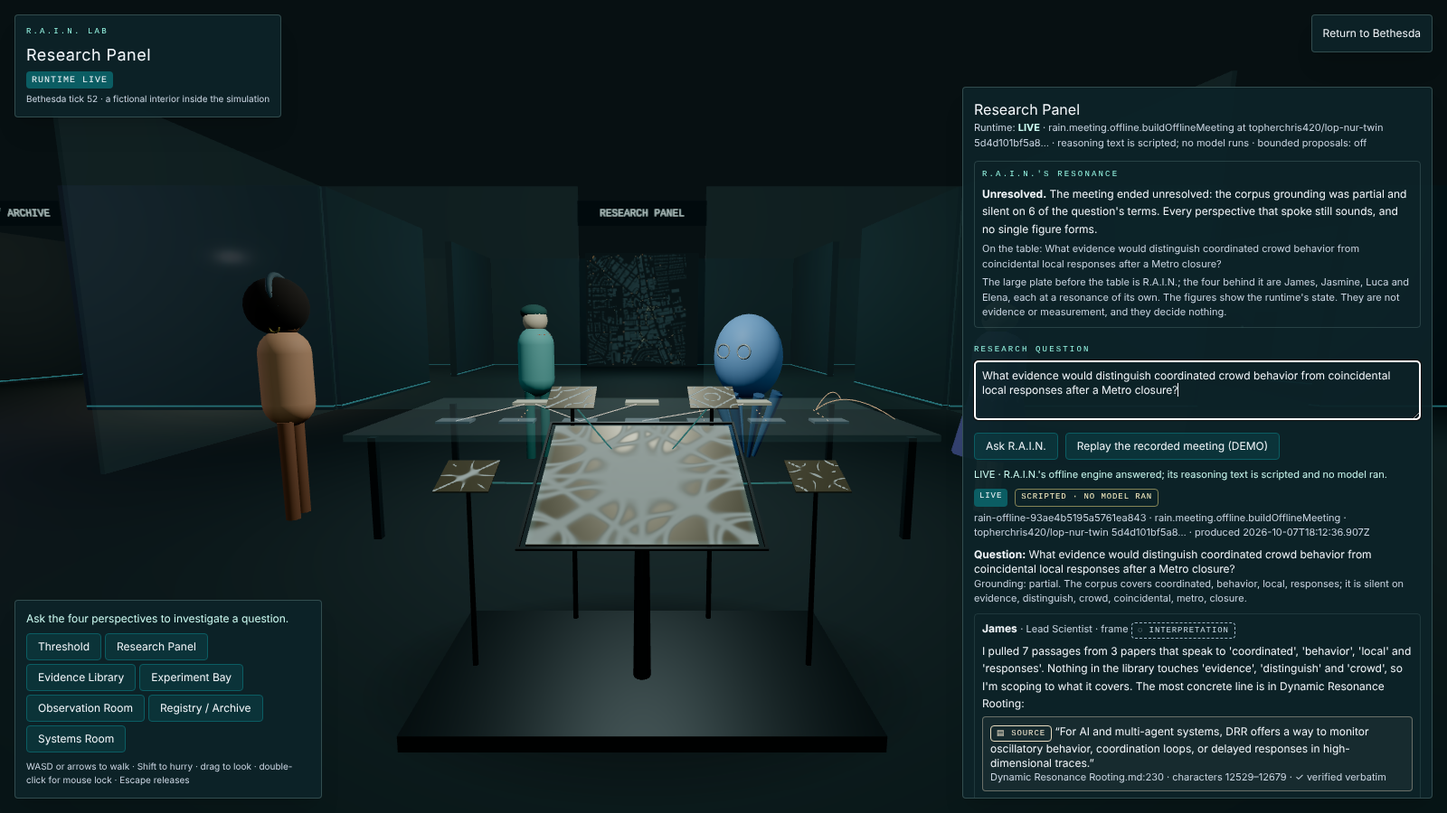
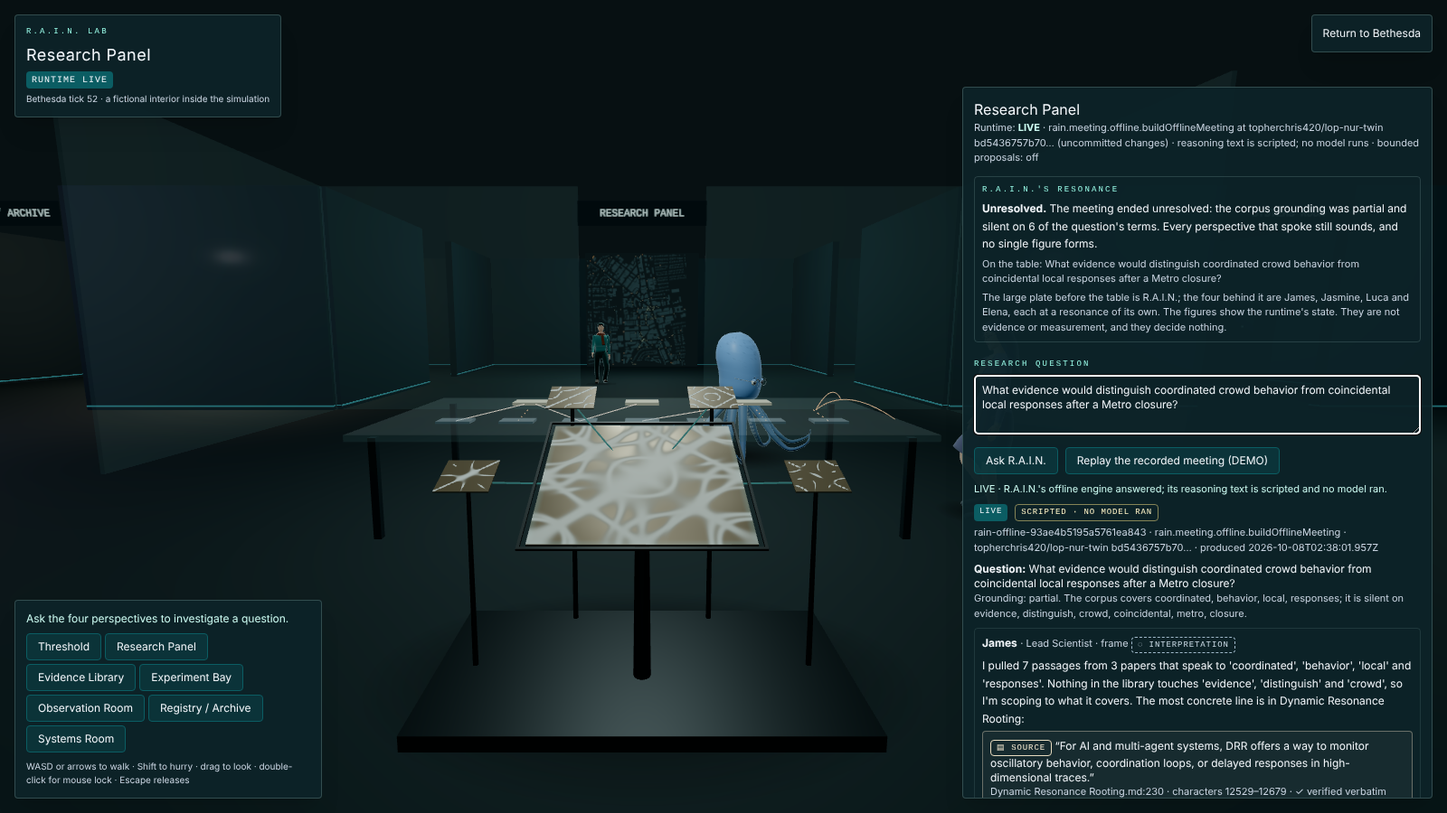
Make the README an invitation, and recapture every screenshot
The README now opens with what the three worlds are and the one rule they
share, then a "Five minutes in" tour: six things to do in the live twin in
the order a first visit finds them, each pinned to a key, a button or a
route. The question the whole project exists to answer sits at the top as
a pull quote, with a link to the benchmark where a hand-written script
matched a live model. The R.A.I.N. Lab, its mathematical substrate and the
scenario compiler get their own subsections instead of running together in
the Bethesda prose, and the documentation table adds the white paper, the
accessibility statement and the government evaluation guide, all of which
existed but were not linked. Every number, caveat, table and link is kept.

Every screenshot is retaken from the app as it is today with
`tools/shots.mjs` and `tools/bethesda-look.mjs`. The two Bethesda images
came back byte for byte identical, so they stay as they are. The others
changed: the lab's four perspectives are now rigged figures, the debrief
is from a fresh match, and the white paper embeds the new overview and
dossier.

Where a picture changed, its words changed with it: the Blacksite frame
looks north-northwest rather than west-northwest, the debrief is a
victory 8–4 with eight kills, and two of the perspectives, not three, are
in view at the Research Panel.

The twin and lens captures waited a fixed fourteen seconds before flying
the camera in. On a cold dev server the first visit compiles the app and
[…]

diff --git a/README.md b/README.md
@@ -2,23 +2,68 @@
 
 **Explore the evidence. Take the controls. Follow the anomaly.**
 
-Lop Nur Twin brings together a public-source reconstruction of a desert airfield,
-a playable experiment in machine decision-making, and a hidden simulation of
-downtown Bethesda, Maryland. Each asks a different question: **what do we know,
-what did the agent choose, and what happened because of it?**
-
-The boundary matters. Geography comes from documented sources; interpretation is
-labelled; simulated lives and events are fiction. A model can propose an action.
-The simulation decides its consequences.
-
 [Explore Lop Nur](https://lop-nur-twin.vercel.app/) ·
 [Play Blacksite](https://lop-nur-twin.vercel.app/play) ·
 [Inspect the evidence](https://lop-nur-twin.vercel.app/analysis) ·
 [Review an evaluation](https://lop-nur-twin.vercel.app/evaluation)
 
-![The reconstructed runway and south hangar compound](docs/screenshot-overview.png)
+![The reconstructed runway and south hangar compound seen from the south-east, with the site telemetry, site map, evidence timeline and evidence status panels around it](docs/screenshot-overview.png)
 
-### One loop, four scales
+A desert airfield rebuilt from public sources, where every building can tell you
+how it knows it belongs there. A first-person game on the same ground, where a
+human, a script or a language model takes the same seat and every decision is
+recorded. And, for anyone who goes looking, a second city beneath the first, with
+a research lab behind a door.
+
+Three worlds, one rule. **Geography comes from documented sources. Interpretation
+is labelled. Simulated lives and events are fiction.** A model can propose an
+action; the simulation decides its consequences; and nothing that happens in the
+game or the city ever becomes evidence about the site.
+
+> **When a system performs well, how much of what you saw came from its choices,
+> its controllers, or its environment?** Everything here exists to make that
+> question answerable — including the day a small hand-written script matched a live
+> model's score and exposed the game instead.
+> [Read what happened.](#the-result-that-changed-the-experiment)
+
+## Five minutes in
+
+Open [lop-nur-twin.vercel.app](https://lop-nur-twin.vercel.app/). No account, no
+credentials, and the evidence tables work without WebGL.
+
+1. **Press `L`.** The evidence lens paints every building and pavement by its
+   status — observed, reported, interpreted or illustrative. Nothing in the
+   model is observed but the runway measurements, and the scene now says so at
+   a glance.
+2. **Click the main assembly hangar**, or press `I` and pick it from the site
+   index. Its dossier opens: classification, why it is in the model, what the
+   evidence establishes, what is inferred, what is unknown, and when the claim
+   entered the model.
+3. **Drag the evidence timeline back.** At each date the scene draws solid only
+   what public sources could support by then, outlines what the model places
+   without public evidence yet, and hides the rest. An outline is absence of
+   evidence, never evidence of absence.
+4. **Press `M`** and click two points on the site map. The ruler reports
+   distance and bearing in EPSG:32645, with only the positional error each
+   endpoint's own evidence documents — ±40 m at the runway thresholds, usually
+   "not stated" elsewhere.
+5. **Press `2`** to walk the apron at ground level — the assembly hangar is
+   126 m of wall — then **Play Blacksite** to cross the same ground under fire.
+6. There is more down there. See [Find Bethesda](#find-bethesda).
+
+Prefer tables to pixels? [`/analysis`](https://lop-nur-twin.vercel.app/analysis)
+lists every claim with its sources, dates and uncertainty, and
+[`/compare`](https://lop-nur-twin.vercel.app/compare) diffs any two revisions of
+the model.
+
+[Quick start](#quick-start) · [The twin](#the-twin-a-reconstruction-that-shows-its-work) ·
+[Blacksite](#blacksite-one-seat-many-minds) ·
+[Bethesda](#enjoy-a-normal-walk-in-bethesda) ·
+[The R.A.I.N. Lab](#a-lab-behind-a-door) ·
+[Experiments](#measure-it-yourself) · [Status](#what-is-built) ·
+[Documentation](#documentation)
+
+## One loop, four scales
 
 ```mermaid
 flowchart LR
@@ -60,14 +105,8 @@ model's answer is never a fact about the world.
 | **Where is The Lab?**   | Discover a walkable city, introduce bounded scenarios and replay its decisions.                                        | A separate city simulation grounded in mapped streets, building footprints and broad terrain. |
 
 Blacksite shares the twin's geometry and cannot write to its evidence ledger.
-Bethesda has its own geography and simulation; it does not share Blacksite's combat
-physics.
-
-[Quick start](#quick-start) · [The twin](#the-analytical-twin) ·
-[Blacksite](#blacksite-one-seat-many-minds) ·
-[Bethesda](#enjoy-a-normal-walk-in-bethesda) ·
-[Experiments](#measure-it-yourself) · [Status](#what-is-built) ·
-[Documentation](#documentation)
+Bethesda has its own geography and simulation; it does not share Blacksite's
+combat physics.
 
 ## Quick start
 
@@ -104,7 +143,7 @@ the server; never prefix them with `VITE_`. Enabling a live model can spend API
 credit. Automated live runs require a separate opt-in; offline checks use test
 doubles.
 
-## The analytical twin
+## The twin: a reconstruction that shows its work
 
 The twin makes its evidence inspectable. Select a structure to open its dossier,
 follow the source, inspect dates and uncertainty, or move to the semantic table
@@ -127,7 +166,6 @@ manifests at [`/compare`](https://lop-nur-twin.vercel.app/compare).
   runway measurements, and with the lens on the scene says so at a glance; the
   legend and `/analysis` print the same tally for anyone who cannot see the
   paint.
-
 - **Every claim can be inspected** — buildings, pavements, the runway
   measurements (the model's only observed claims), the terrain proxy, the
   climatology and the illustrative scenario elements. The claim inspector, in
@@ -151,8 +189,8 @@ manifests at [`/compare`](https://lop-nur-twin.vercel.app/compare).
 - **Measurements have a frame.** Distances and bearings use EPSG:32645, with
   WGS84 GeoJSON, CSV and JSON exports. Each endpoint carries the positional
   error its own evidence states — ±40 m at the runway thresholds, usually "not
-  stated" elsewhere — never a site-wide figure. Release manifests hash geometry and the
-  evidence ledger so revisions can be compared.
+  stated" elsewhere — never a site-wide figure. Release manifests hash geometry
+  and the evidence ledger so revisions can be compared.
 - **The evidence works without WebGL.** Analysis and comparison have semantic
   interfaces, with browser checks for accessibility.
 
@@ -166,7 +204,8 @@ purpose or activity.
 
 Start with [data provenance](docs/DATA_PROVENANCE.md), the
 [site model](docs/SITE_MODEL.md) and the
-[uncertainty model](docs/UNCERTAINTY_MODEL.md).
+[uncertainty model](docs/UNCERTAINTY_MODEL.md), or read the
+[white paper](docs/WHITE_PAPER.md) for the long-form argument.
 
 ## Blacksite: one seat, many minds
 
@@ -261,7 +300,7 @@ Heat shimmer, bot exposure behaviour and explicit seat rules followed. The
 marksman's kill rate roughly halved, but it still survived those runs. That is
 an unresolved limitation, not a solved benchmark. Later, offering Jev named
 places instead of movement steps made it walk over a kilometre across three
-episodes—and nearly stop fighting. Changing what a model can choose changes
+episodes — and nearly stop fighting. Changing what a model can choose changes
 what its score means.
 
 These are small, historical experiments, not current performance promises or
@@ -307,9 +346,9 @@ observations can be shown to the scripted policies and compared choice by
 choice, against the exact agreement a uniform chooser would reach. The random
 seat sits at chance on every axis, as a control should. In the even-rules run,
 where the aim point was a real choice, Glide chose centre mass in 95% of those
-decisions; the marksman chose the head in 98% of its own, and Jev in 64%. This is agreement on
-identical inputs, not a counterfactual outcome and not a skill score
-([method](docs/EVALUATION_PHILOSOPHY.md#same-observations-other-minds),
+decisions; the marksman chose the head in 98% of its own, and Jev in 64%. This
+is agreement on identical inputs, not a counterfactual outcome and not a skill
+score ([method](docs/EVALUATION_PHILOSOPHY.md#same-observations-other-minds),
 [tables](docs/benchmarks/2026-10-05/README.md#same-observations-other-minds)).
 
 ## Enjoy a normal walk in Bethesda
@@ -327,8 +366,10 @@ _Street-level exploration in the running application. Buildings and street detai
 
 _Survey mode reveals the downtown layout and courtyard blocks. Both screenshots show the actual application with its interface and map attribution visible._
 
+### Find Bethesda
+
 <details>
-<summary><strong>Find Bethesda · discovery spoiler</strong></summary>
+<summary><strong>Discovery spoiler</strong></summary>
 
 From the twin at `/`, press **backtick** (the key below Escape on a US keyboard).
 Enter `38.9847,-77.0947` or `resolve bethesda`, then submit. Or open the **Site
@@ -347,6 +388,8 @@ from its permitted actions. Free walking is exploration, not a human-versus-mode
 comparison seat. On a touch screen a thumb-stick walks and a drag looks, in the
 city and in the lab; in the city every step is the same recorded command as one
 taken on WASD.
+
+### Introduce a scenario
 
 Inside the city, open **~ telemetry** or press backtick to introduce a scenario.
 A deterministic rule compiler (not a language model) turns the request into
@@ -385,29 +428,43 @@ limitations and downloads of the geographic data.
 **Bounded decisions, verifiable replay.** Humans in the pedestrian seat and
 optional Jev proposals pass through the city's permitted-action gate, which
 says what it did with each choice; an agent indoors takes no choice from
-anyone.
-Deterministic code retains routing, collisions, traffic and event mechanics.
-Jev is off by default; no live Jev Bethesda result is claimed. Export a replay
-before leaving, then re-import it to verify checkpoints, decision history and
-final simulation state without calling a model. This verifies state, not identical
-rendered pixels.
+anyone. Deterministic code retains routing, collisions, traffic and event
+mechanics. Jev is off by default; no live Jev Bethesda result is claimed. Export
+a replay before leaving, then re-import it to verify checkpoints, decision
+history and final simulation state without calling a model. This verifies
+state, not identical rendered pixels.
 
-**A lab behind a door.** Somewhere in the city is the R.A.I.N. Lab, an
-integrated research environment where the four perspectives of R.A.I.N.
-investigate questions and their hypotheses become matched experiments on the
-simulator. Its research runtime, experiment registry, evidence layer and
-simulation interface live in this repository (`src/rain/`, `src/bethesda/rain/`);
-this is the lab's canonical home. Its interior is fictional and its pictures
-are not evidence; every run needs a person's authorization of the exact
-definition, runs on separate simulators rather than the city you are in, and is
-recorded so it can be re-simulated without contacting anything. Its results
-describe the simulator, not Bethesda. Its DEMO is labelled as a recording; LIVE,
-a meeting comes from the runtime's scripted offline engine or, when a local
-model server is configured, from a model meeting such as Qwen's, and every turn
-says which wrote it. R.A.I.N. has no face there: it is seen through a Chladni
-plate instrument, its figures (after the Vers3Dynamics Cymatics studio) following
-the runtime's state — deliberation, convergence, uncertainty, an experiment, a
-result, and a case waiting for a person — and never standing for evidence.
+Read the [Bethesda guide](docs/BETHESDA_ANOMALY.md) for provenance, terrain,
+scenario limits, model authority and replay compatibility.
+
+### A lab behind a door
+
+Somewhere in the city is the R.A.I.N. Lab, an integrated research environment
+where the four perspectives of R.A.I.N. investigate questions and their
+hypotheses become matched experiments on the simulator. Its research runtime,
+experiment registry, evidence layer and simulation interface live in this
+repository (`src/rain/`, `src/bethesda/rain/`); this is the lab's canonical
+home.
+
+![The R.A.I.N. Lab's Research Panel: R.A.I.N.'s large Chladni plate in front of the evidence table with the four perspectives' small plates around it, two of the perspectives in view, and the panel showing a LIVE meeting from the scripted offline engine, its resonance reading Unresolved and James's first turn quoting a source verified verbatim](docs/screenshots/rain-lab-meeting.png)
+
+_The Research Panel after a question to the runtime this site's server holds. The meeting is the offline engine's, labelled scripted with no model run; the plates read "unresolved" because the corpus grounding was partial, and they say so in words beside the picture._
+
+Its interior is fictional and its pictures are not evidence; every run needs a
+person's authorization of the exact definition, runs on separate simulators
+rather than the city you are in, and is recorded so it can be re-simulated
+without contacting anything. Its results describe the simulator, not Bethesda.
+Its DEMO is labelled as a recording; LIVE, a meeting comes from the runtime's
+scripted offline engine or, when a local model server is configured, from a
+model meeting such as Qwen's, and every turn says which wrote it. R.A.I.N. has
+no face there: it is seen through a Chladni plate instrument, its figures (after
+the Vers3Dynamics Cymatics studio) following the runtime's state — deliberation,
+convergence, uncertainty, an experiment, a result, and a case waiting for a
+person — and never standing for evidence.
+
+![The R.A.I.N. Lab's Registry: a run's record with its limitations, its provenance (this repository's commit, the DEMO recording's R.A.I.N. revision, no provider and no model) and replay re-simulating every arm identically without contacting a model](docs/screenshots/rain-lab-record.png)
+
+_The same question's experiment after a person authorized it, run on three matched seeds and verified by replay. In frame: what the record cannot establish, where every part of it came from, and each arm re-simulated._
 
 **A mathematical substrate beside the evidence.** R.A.I.N. also holds a
 version-pinned, read-only index of [`openai/math`](https://github.com/openai/math)
@@ -426,17 +483,9 @@ changes a result: mathematical substrate ≠ evidence corpus, mathematical resul
 ≠ empirical result, Lean formalization ≠ empirical validation, hypothesis ≠
 conclusion.
 
-![The R.A.I.N. Lab's Research Panel: R.A.I.N.'s large Chladni plate in front of the evidence table with the four perspectives' small plates around it, three of the perspectives in view, and the panel showing a LIVE meeting from the scripted offline engine, its resonance reading Unresolved and James's first turn quoting a source verified verbatim](docs/screenshots/rain-lab-meeting.png)
-
-_The Research Panel after a question to the runtime this site's server holds. The meeting is the offline engine's, labelled scripted with no model run; the plates read "unresolved" because the corpus grounding was partial, and they say so in words beside the picture._
-
-![The R.A.I.N. Lab's Registry: a run's record with its limitations, its provenance (this repository's commit, the DEMO recording's R.A.I.N. revision, no provider and no model) and replay re-simulating every arm identically without contacting a model](docs/screenshots/rain-lab-record.png)
-
-_The same question's experiment after a person authorized it, run on three matched seeds and verified by replay. In frame: what the record cannot establish, where every part of it came from, and each arm re-simulated._
-
-Read the [Bethesda guide](docs/BETHESDA_ANOMALY.md) for provenance, terrain,
-scenario limits, model authority and replay compatibility, and the
-[R.A.I.N. Lab guide](docs/RAIN_LAB_BETHESDA.md) for the lab.
+Read the [R.A.I.N. Lab guide](docs/RAIN_LAB_BETHESDA.md) for meetings,
+experiments, authorization, replay and
+[the mathematical substrate](docs/RAIN_LAB_BETHESDA.md#the-mathematical-substrate).
 
 ## Measure it yourself
 
@@ -509,7 +558,9 @@ or extend one.
 
 Built with TypeScript, React, Three.js / React Three Fiber, Vite and TanStack
 Router. Rendering, simulation state, evidence and remote decision endpoints have
-separate responsibilities.
+separate responsibilities. Everything on screen is procedural and seeded: no
+binary assets, no runtime downloads, and a given seed always reproduces the
+same site.
 
 ```sh
 npm run build          # validate both geographies, manifest, bundle, types, secret scan
@@ -519,6 +570,7 @@ npm run test:run
 npm run test:evidence
 npm run test:bethesda
 npm run model:verify   # reproduce every recorded model revision from its own commit (Bun, full history)
+npm run shots          # recapture the documentation screenshots from the running app
 ```
 
 With Bun, `bun run check` combines formatting, lint, unit tests, evidence tests and
@@ -529,38 +581,41 @@ routes and Bethesda's discovery/scenario/replay flow. See
 for server requirements and commands.
 
 ```text
-src/lib/          Lop Nur layout, sources, evidence, coordinates and analysis
-src/components/   Analytical scene and interface
-src/game/         Blacksite simulation, player, bots, weapons and HUD
-src/game/pilot/   Observations, decisions, controllers, navigation and debrief
-src/game/eval/    Experiment definitions, outcome contracts and evaluation
-src/bethesda/    City geography, terrain, simulation, scenarios and replay
+src/lib/            Lop Nur layout, sources, evidence, coordinates and analysis
+src/components/     Analytical scene and interface
+src/game/           Blacksite simulation, player, bots, weapons and HUD
+src/game/pilot/     Observations, decisions, controllers, navigation and debrief
+src/game/eval/      Experiment definitions, outcome contracts and evaluation
+src/bethesda/       City geography, terrain, simulation, scenarios and replay
 src/bethesda/rain/  The R.A.I.N. Lab: protocol, experiments, records and rooms
-src/rain/        The R.A.I.N. research runtime: corpus, meetings, decisions, registry,
-                 and the mathematical substrate (src/rain/mathematics/)
-server/, api/    Server-side Jev, Glide, LLM and R.A.I.N. endpoints
-tools/           Browser checks, experiments, benchmarks and diagnostics
-docs/            Methods, limitations, guides and archived evidence
+src/rain/           The R.A.I.N. research runtime: corpus, meetings, decisions, registry,
+                    and the mathematical substrate (src/rain/mathematics/)
+server/, api/       Server-side Jev, Glide, LLM and R.A.I.N. endpoints
+tools/              Browser checks, experiments, benchmarks and diagnostics
+docs/               Methods, limitations, guides and archived evidence
 ```
 
-Before contributing, read [AGENTS.md](AGENTS.md). Changes should preserve the
-evidence boundary, bounded model authority and a working build. Gameplay changes
-need matched experiments that show what changed.
+Before contributing, read [AGENTS.md](AGENTS.md) and
+[CONTRIBUTING.md](CONTRIBUTING.md). Changes should preserve the evidence
+boundary, bounded model authority and a working build. Gameplay changes need
+matched experiments that show what changed.
 
 ## Documentation
 
-| Start here                                                                                                                             | For                                              |
-| :------------------------------------------------------------------------------------------------------------------------------------- | :----------------------------------------------- |
-| [Blacksite](docs/BLACKSITE.md) · [Controls](docs/CONTROLS.md)                                                                          | Playing, mechanics and navigation                |
-| [Jev, Glide, LLMs and the player seat](docs/JEV_BLACKSITE.md)                                                                          | Providers, controllers, traces and benchmarks    |
-| [Evaluation philosophy](docs/EVALUATION_PHILOSOPHY.md)                                                                                 | What a result can support—and how it can mislead |
-| [The Bethesda anomaly](docs/BETHESDA_ANOMALY.md)                                                                                       | Discovery, city scenarios, geography and replay  |
-| [The R.A.I.N. Lab](docs/RAIN_LAB_BETHESDA.md) · [Runtime migration](docs/RAIN_MIGRATION.md)                                            | Meetings, experiments, authorization and replay  |
-| [The mathematical substrate](docs/RAIN_LAB_BETHESDA.md#the-mathematical-substrate)                                                     | Mathematics as context: status, relation, basis  |
-| [Data provenance](docs/DATA_PROVENANCE.md) · [Uncertainty](docs/UNCERTAINTY_MODEL.md)                                                  | Sources, classifications and limits              |
-| [Spatial analysis](docs/SPATIAL_ANALYSIS.md) · [Temporal model](docs/TEMPORAL_MODEL.md) · [Model comparison](docs/MODEL_COMPARISON.md) | Measurements, dates, exports and revisions       |
-| [Architecture](docs/SYSTEM_ARCHITECTURE.md) · [Validation](docs/VALIDATION.md)                                                         | Implementation and checks                        |
-| [Deployment](docs/DEPLOYMENT.md) · [Threat model](docs/THREAT_MODEL.md) · [Security](SECURITY.md)                                      | Hosting, credentials and trust boundaries        |
+| Start here                                                                                                                             | For                                                |
+| :------------------------------------------------------------------------------------------------------------------------------------- | :------------------------------------------------- |
+| [White paper](docs/WHITE_PAPER.md)                                                                                                     | The long-form argument for the reconstruction      |
+| [Blacksite](docs/BLACKSITE.md) · [Controls](docs/CONTROLS.md)                                                                          | Playing, mechanics and navigation                  |
+| [Jev, Glide, LLMs and the player seat](docs/JEV_BLACKSITE.md)                                                                          | Providers, controllers, traces and benchmarks      |
+| [Evaluation philosophy](docs/EVALUATION_PHILOSOPHY.md)                                                                                 | What a result can support — and how it can mislead |
+| [The Bethesda anomaly](docs/BETHESDA_ANOMALY.md)                                                                                       | Discovery, city scenarios, geography and replay    |
+| [The R.A.I.N. Lab](docs/RAIN_LAB_BETHESDA.md) · [Runtime migration](docs/RAIN_MIGRATION.md)                                            | Meetings, experiments, authorization and replay    |
+| [The mathematical substrate](docs/RAIN_LAB_BETHESDA.md#the-mathematical-substrate)                                                     | Mathematics as context: status, relation, basis    |
+| [Data provenance](docs/DATA_PROVENANCE.md) · [Uncertainty](docs/UNCERTAINTY_MODEL.md)                                                  | Sources, classifications and limits                |
+| [Spatial analysis](docs/SPATIAL_ANALYSIS.md) · [Temporal model](docs/TEMPORAL_MODEL.md) · [Model comparison](docs/MODEL_COMPARISON.md) | Measurements, dates, exports and revisions         |
+| [Architecture](docs/SYSTEM_ARCHITECTURE.md) · [Validation](docs/VALIDATION.md) · [Accessibility](docs/ACCESSIBILITY.md)                | Implementation, checks and what is actually tested |
+| [Deployment](docs/DEPLOYMENT.md) · [Threat model](docs/THREAT_MODEL.md) · [Security](SECURITY.md)                                      | Hosting, credentials and trust boundaries          |
+| [Government evaluation guide](docs/GOVERNMENT_EVALUATION.md)                                                                           | What this can and cannot be used for, in an hour   |
 
 ## License and attribution
 

diff --git a/docs/BLACKSITE.md b/docs/BLACKSITE.md
@@ -23,7 +23,7 @@ The one thing they share is geometry. `/play` mounts the twin's `Terrain`,
 of the rendered scene graph, so the map and the twin cannot drift apart. That is
 also why a change to `layout.ts` moves the fight with it.
 
-![Blacksite — an engagement between two buildings, looking west-northwest across open ground](screenshot-blacksite.png)
+![Blacksite — an engagement between two buildings, looking north-northwest across open ground](screenshot-blacksite.png)
 
 A team deathmatch on the airfield. It exists because the most direct way to
 understand a place's scale is to have to cross it under fire: the assembly
@@ -184,7 +184,7 @@ short when the capture tool ran out the clock
 none to class. The same seed will not reproduce it: frame pacing is not
 deterministic, so two runs of one seed differ.
 
-![The results screen on seed 42: victory 12–4, eleven kills and no deaths, and a three-sentence debrief labelled scripted](screenshots/debrief.png)
+![The results screen on seed 42: victory 8–4, eight kills and no deaths, and a three-sentence debrief labelled scripted](screenshots/debrief.png)
 
 What a brain may see and choose, the timing rules, the server boundary and the
 measured results are in [`docs/JEV_BLACKSITE.md`](JEV_BLACKSITE.md). None of it

diff --git a/docs/RAIN_LAB_BETHESDA.md b/docs/RAIN_LAB_BETHESDA.md
@@ -449,7 +449,7 @@ meetings a visitor who comes within 3 m is looked at. Reduced motion stills all
 of it: the figures stand where they belong and turn at once, without a step, to
 whoever is speaking.
 
-![The Research Panel with a LIVE meeting from the offline engine: R.A.I.N.'s large plate in front of the table, the four small plates, three of the perspectives, the resonance reading Unresolved, and James's first turn quoting a span verified verbatim](screenshots/rain-lab-meeting.png)
+![The Research Panel with a LIVE meeting from the offline engine: R.A.I.N.'s large plate in front of the table, the four small plates, two of the perspectives, the resonance reading Unresolved, and James's first turn quoting a span verified verbatim](screenshots/rain-lab-meeting.png)
 
 _A LIVE meeting from the offline engine on the DEMO question, labelled
 `SCRIPTED · NO MODEL RAN`. James's turn quotes `Dynamic Resonance
